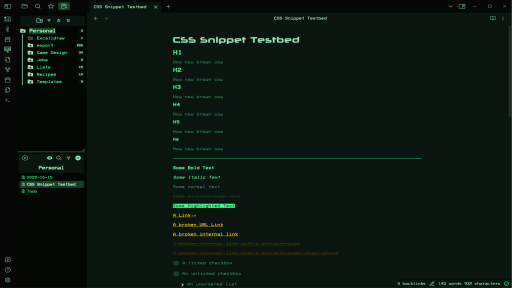
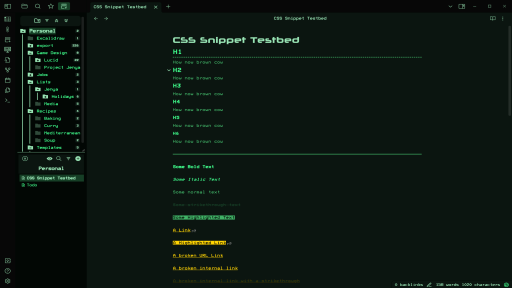
Updated screenshots, Fixed some bugs
[!]: - Fixed tag highlight colour improving contrast
[!]: - Fixed calendar hover colour improving contrast
[!]: - Fixed highlighted hyperlink colors

diff --git a/theme.css b/theme.css
@@ -40,9 +40,6 @@ SOFTWARE.
 * Kanban
 * Calendar
 * File Tree Alternative Plugin
-
-/* PLANNED UPDATES
-* Excalidraw Support
 */
 
 @font-face {
@@ -142,7 +139,7 @@ SOFTWARE.
     --text-accent: var(--col-accent-plus);
     --text-accent-hover: var(--col-important-plus);
     --interactive-normal: var(--col-base);
-    --interactive-hover: var(--col-accent);
+    --interactive-hover: var(--col-muted);
     --interactive-accent-hsl: var(--col-accent);
     --interactive-accent: var(--col-accent);
     --interactive-accent-hover: var(--col-accent-plus);
@@ -204,7 +201,7 @@ SOFTWARE.
     --text-accent: var(--col-accent-plus);
     --text-accent-hover: var(--col-important-plus);
     --interactive-normal: var(--col-base);
-    --interactive-hover: var(--col-accent);
+    --interactive-hover: var(--col-muted);
     --interactive-accent-hsl: var(--col-accent);
     --interactive-accent: var(--col-accent);
     --interactive-accent-hover: var(--col-accent-plus);	
@@ -259,6 +256,7 @@ body {
 	--col-ed-txt-hyperlink: var(--col-important);
 	--col-ed-txt-hyperlink-strikethrough: var(--col-important-muted);
 	--col-ed-txt-hyperlink-hover: var(--col-important-plus);
+	--col-ed-bckg-hyperlink-broken: var(--col-danger);
 	--col-ed-txt-p: var(--col-base);
 	--siz-ed-txt-p: var(--siz-txt-p);
 	--col-ed-bckg-checkbox-empty: var(--col-muted);
@@ -320,6 +318,7 @@ body {
 	--col-pr-text-hyperlink-unresolved: var(--col-important);
 	--col-pr-txt-hyperlink-strikethrough: var(--col-important-muted);
 	--col-pr-txt-hyperlink-hover: var(--col-important-plus);
+	--col-pr-bckg-hyperlink-broken: red;
 	--col-pr-txt-p: var(--col-base);
 	--siz-pr-txt-p: var(--siz-txt-p);
 	--col-pr-bckg-checkbox-empty: var(--col-muted);
@@ -390,7 +389,6 @@ div.oz-nav-file.is-active, div.oz-nav-file.is-active div.oz-nav-file-title, div.
 	color: var(--col-txt-selectedtitles);
 	background-color: var(--col-bckg-selectedtitles);
 }
-
 
 /* File Tree Alternative and normal (inactive) Folder / file name */
 .oz-folder-name, .oz-nav-file-title, .nav-file-title-content, 
@@ -559,9 +557,18 @@ div.oz-nav-file.is-active, div.oz-nav-file.is-active div.oz-nav-file-title, div.
 }
 
 /* Hyperlink */
-.markdown-source-view.mod-cm6 .cm-link:not(.cm-highlight) .cm-underline:not(.cm-highlight), .markdown-source-view.mod-cm6:not(.cm-highlight) .cm-url:not(.cm-highlight) .cm-underline:not(.cm-highlight), .cm-s-obsidian span.cm-hmd-internal-link:not(.cm-highlight) {
+.markdown-source-view.mod-cm6 .cm-link:not(.cm-highlight) .cm-underline:not(.cm-highlight),
+ .markdown-source-view.mod-cm6:not(.cm-highlight) .cm-url:not(.cm-highlight) .cm-underline:not(.cm-highlight),
+ .cm-s-obsidian span.cm-hmd-internal-link:not(.cm-highlight)
+{
 	color: var(--col-ed-txt-hyperlink);
 	text-decoration: underline;
+}
+
+/* Highlighted Hyperlink */
+.cm-editor span.cm-highlight > .cm-underline {
+	color: var(--col-ed-txt-highlight) !important;
+	background-color: var(--col-ed-txt-hyperlink);
 }
 
 /* Hyperlink Strikethrough */
@@ -572,6 +579,12 @@ div.oz-nav-file.is-active, div.oz-nav-file.is-active div.oz-nav-file-title, div.
 /* Hyperlink Hover */
 .markdown-source-view.mod-cm6 .cm-link .cm-underline:hover, .markdown-source-view.mod-cm6 .cm-url .cm-underline, .cm-s-obsidian span.cm-hmd-internal-link:hover {
 	color: var(--col-ed-txt-hyperlink-hover);
+}
+
+/* Highlighted Hyperlink Hover*/
+.cm-editor span.cm-highlight > .cm-underline:hover {
+	color: var(--col-ed-txt-highlight) !important;
+	background-color: var(--col-ed-txt-hyperlink-hover);
 }
 
 /* Checkbox unchecked */
@@ -793,6 +806,12 @@ body:not(.default-font-color) em, body:not(.default-font-color) .cm-em {
 	text-decoration: underline;
 }
 
+/* Highlighted Hyperlink */
+.markdown-preview-view mark > .external-link, .internal-link {
+	color: var(--col-pr-txt-highlight) !important;
+	background-color: var(--col-pr-text-hyperlink);
+}
+
 /* Hyperlink Strikethrough */
 .markdown-preview-view del > .external-link, .markdown-preview-view del > .internal-link {
 	color: var(--col-pr-txt-hyperlink-strikethrough);
@@ -801,6 +820,17 @@ body:not(.default-font-color) em, body:not(.default-font-color) .cm-em {
 /* Hyperlink Hover */
 .markdown-rendered .external-link:hover, .markdown-rendered .internal-link:hover {
 	color: var(--col-pr-txt-hyperlink-hover);
+}
+
+/* Unresolved Hyperlink */ 
+.markdown-rendered .external-link.is-unresolved, .markdown-rendered .internal-link.is-unresolved {
+	background-color: var(--col-pr-bckg-hyperlink-broken);
+}
+
+/* Highlighted Hyperlink Hover*/
+.markdown-preview-view mark > .external-link:hover, .internal-link:hover {
+	color: var(--col-pr-txt-highlight);
+	background-color: var(--col-pr-txt-hyperlink-hover);
 }
 
 /* Unresolved Hover */
@@ -892,7 +922,7 @@ ol > li::marker, .cm-s-obsidian .cm-formatting-list {
 }
 
 /* Tags */
-a.tag {
+a.tag, a.tag:hover {
 	background-color: var(--col-pr-bckg-tag);
 	color: var(--col-pr-txt-tag);
 }

diff --git a/README.md b/README.md
@@ -43,5 +43,3 @@ SUPPORTED PLUGINS
 * Calendar
 * File Tree Alternative Plugin
 
-PLANNED UPDATES
-* Excalidraw Support
